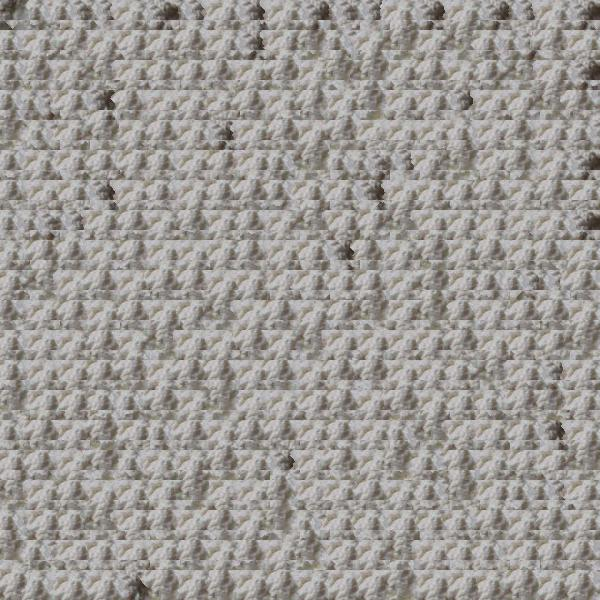
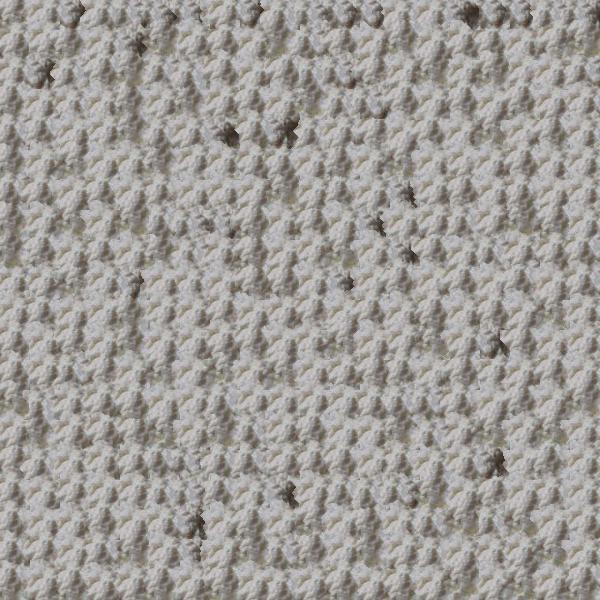
no flip lr

diff --git a/main.py b/main.py
@@ -175,8 +175,8 @@ def synthesize(texture_path, out_height, out_width, patch_height, patch_width,
                 # Horizontal cut
                 y_patch = img[py - overlap_height:py, px:px + dx]
                 y_overlapped = img_out[y - overlap_height:y, x:x + dx]
-                ypt, yot = np.fliplr(y_patch.transpose(1, 0, 2)), np.fliplr(y_overlapped.transpose(1, 0, 2))
-                img_out[y - overlap_height:y, x:x + dx] = np.fliplr(vcut(ypt, yot)).transpose(1, 0, 2)
+                ypt, yot = y_patch.transpose(1, 0, 2), y_overlapped.transpose(1, 0, 2)
+                img_out[y - overlap_height:y, x:x + dx] = vcut(ypt, yot).transpose(1, 0, 2)
             if x > 0:
                 # Vertical cut
                 x_patch = img[py:py + dy, px - overlap_width:px]
